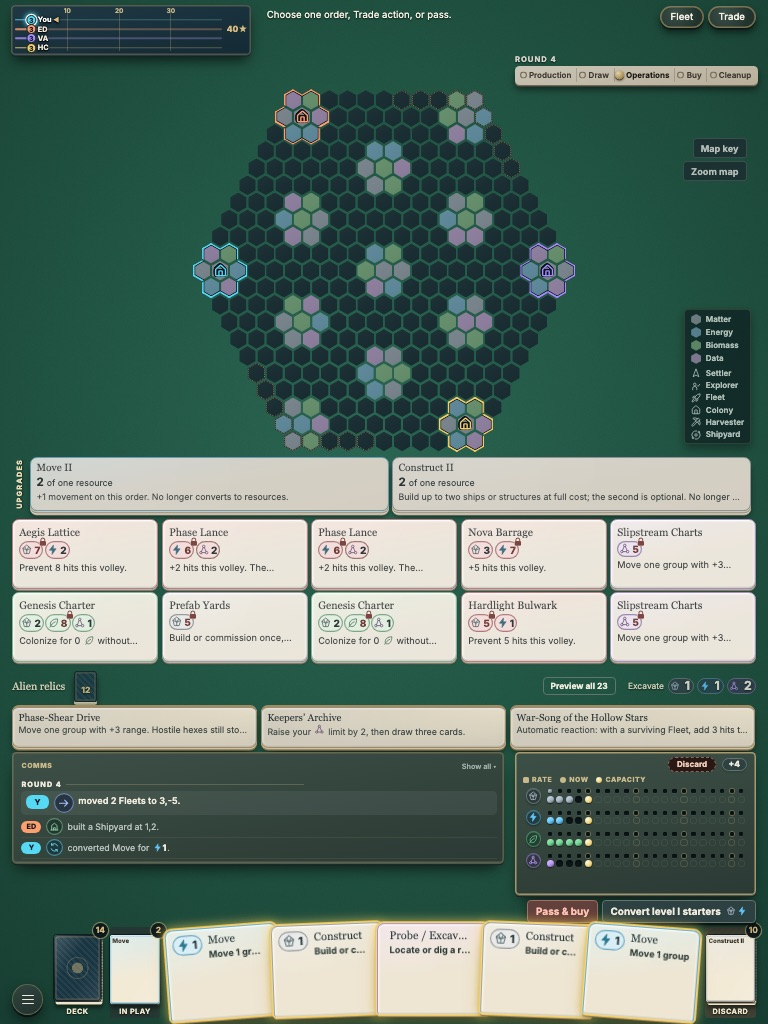
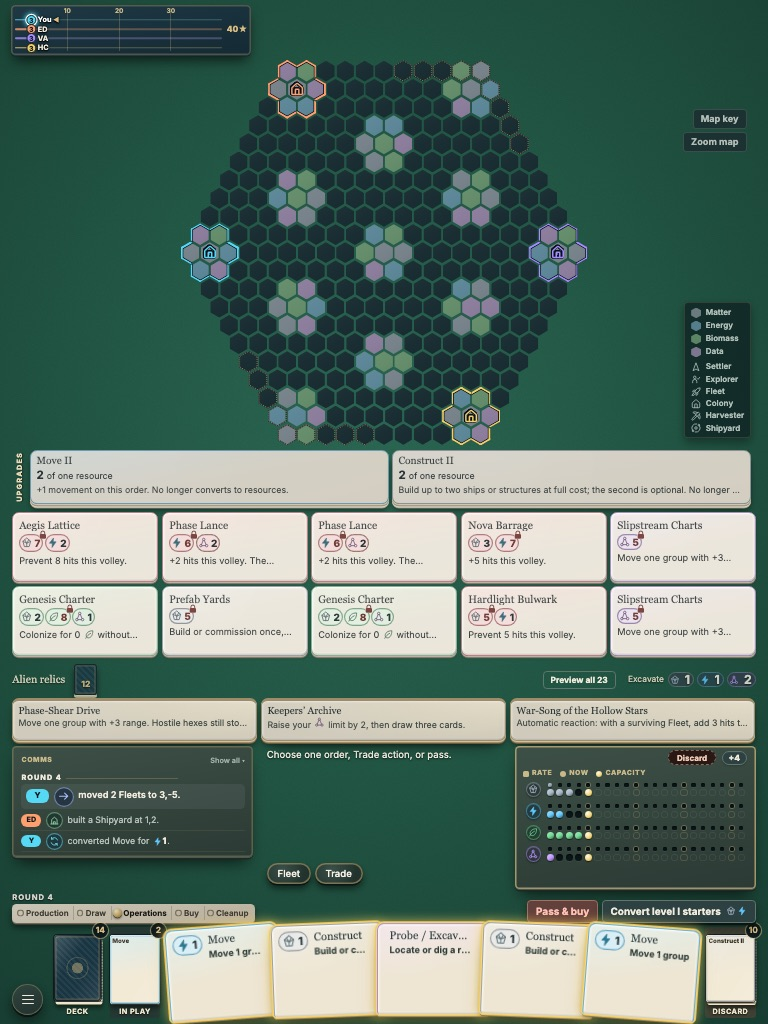
iPad held upright: the phases sit by the turn's buttons and the turn prompt with Fleet/Trade between the comms card and the mat; the map takes the top

Changed region(s): [[0.0, 0.0312, 1.0, 0.9062], [0.3438, 0.0, 0.5938, 0.0312], [0.8438, 0.0, 1.0, 0.0312]]

diff --git a/prototypes/galactic-reach/styles.css b/prototypes/galactic-reach/styles.css
@@ -2486,6 +2486,15 @@ html { -webkit-text-size-adjust: 100%; text-size-adjust: 100%; }
 @media (max-width: 599px), (max-height: 599px) {
   body.my-turn #hand-row > .game-card { box-shadow: 0 0 0 2px #f2c94ccc, 0 0 12px 2px #f2c94c55 !important; }
 }
+/* Portrait (an iPad held upright): the same move. The phases sit left of the turn's buttons, and
+   the turn prompt with Fleet/Trade lies between the comms card and your mat; the map takes the
+   rows they left at the top. */
+@media (min-width: 600px) and (min-height: 600px) and (orientation: portrait) {
+  .phase-stepper { grid-column: 1 / -1 !important; grid-row: 7 !important; justify-self: start !important; align-self: center !important; }
+  .log-panel { grid-column: 1 !important; }
+  .board-toolbar { grid-column: 2 !important; grid-row: 6 !important; align-self: start !important; margin: 0 !important; }
+  .console-nav { grid-column: 2 !important; grid-row: 6 !important; justify-self: start !important; align-self: end !important; margin: 0 0 6px 4px !important; }
+}
 
 /* ==== Supply cards read like cards without pointing at them: a folded market card shows as much
    of its effect, wrapped, as its height allows (one to five lines, chosen by the card's own
